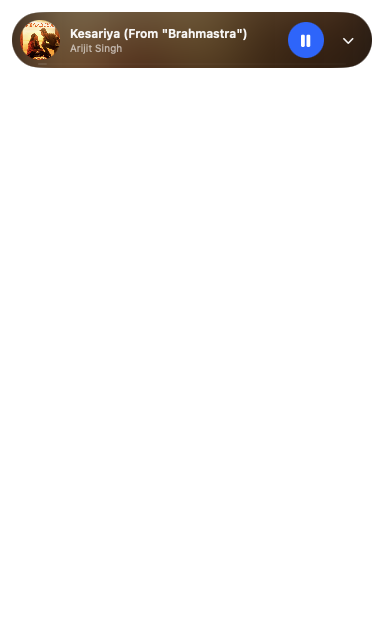
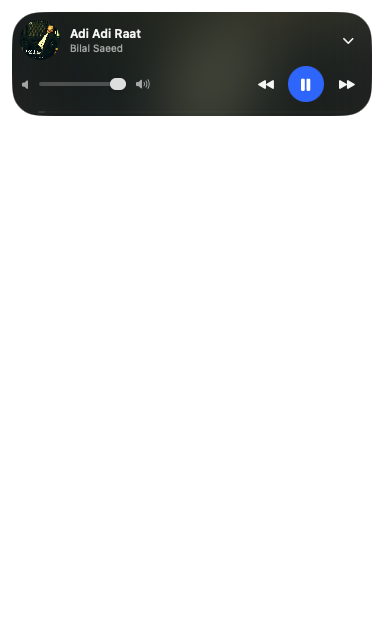
Add volume, previous and next to the compact pill
The pill grows to two rows: track info and expand on top, volume and
transport below. The volume slider is shared with Now Playing.

Changed region(s): [[0.0312, 0.0, 0.9688, 0.1863]]

diff --git a/Sources/Encore/EncoreView.swift b/Sources/Encore/EncoreView.swift
@@ -2,7 +2,7 @@ import SwiftUI
 
 enum PanelMetrics {
     static let width: CGFloat = 360
-    static let pillHeight: CGFloat = 56
+    static let pillHeight: CGFloat = 104
     static let drawerHeight: CGFloat = 620
     static let radius: CGFloat = 28
     /// Room around the shape for the glass edge and shadow.
@@ -50,6 +50,7 @@ private struct Pill: View {
     var body: some View {
         let player = model.player
         let state = player.state
+        VStack(spacing: 6) {
         HStack(spacing: 10) {
             RemoteImage(url: state.artURL, cornerRadius: 20)
                 .matchedGeometryEffect(id: "art", in: namespace)
@@ -74,14 +75,26 @@ private struct Pill: View {
 
             Spacer(minLength: 4)
 
-            PlayPauseButton(player: player, size: 36)
             GlyphButton(symbol: "chevron.down", label: "Expand", size: 28, font: .callout.weight(.semibold)) {
                 model.expanded = true
             }
         }
+
+        HStack(spacing: 6) {
+            VolumeSlider(player: player)
+                .frame(width: 132)
+            Spacer(minLength: 8)
+            GlyphButton(symbol: "backward.fill", label: "Previous", size: 32, font: .callout, action: player.previous)
+            PlayPauseButton(player: player, size: 36)
+            GlyphButton(symbol: "forward.fill", label: "Next", size: 32, font: .callout, action: player.next)
+        }
+        .disabled(!state.hasTrack)
+        }
         .padding(.leading, 8)
         .padding(.trailing, 10)
-        .frame(height: PanelMetrics.pillHeight)
+        .padding(.top, 8)
+        .padding(.bottom, 10)
+        .frame(height: PanelMetrics.pillHeight, alignment: .top)
         .overlay(alignment: .bottom) {
             if state.hasTrack {
                 ProgressLine(player: player).padding(.horizontal, 26).padding(.bottom, 3)

diff --git a/Sources/Encore/NowPlayingTab.swift b/Sources/Encore/NowPlayingTab.swift
@@ -43,12 +43,7 @@ struct NowPlayingTab: View {
                 }
 
                 HStack(spacing: 8) {
-                    Image(systemName: "speaker.fill").font(.caption2).foregroundStyle(.secondary)
-                    Slider(value: Binding(get: { player.state.volume }, set: { player.setVolume($0) }), in: 0...100)
-                        .controlSize(.mini)
-                        .tint(.primary)
-                        .accessibilityLabel("Volume")
-                    Image(systemName: "speaker.wave.3.fill").font(.caption2).foregroundStyle(.secondary)
+                    VolumeSlider(player: player)
                     GlyphButton(symbol: "list.bullet", label: model.showQueue ? "Hide Up Next" : "Up Next",
                                 size: 30, font: .callout.weight(.semibold)) {
                         model.showQueue.toggle()

diff --git a/Sources/Encore/Components.swift b/Sources/Encore/Components.swift
@@ -97,6 +97,22 @@ struct PlayPauseButton: View {
     }
 }
 
+/// The player's own volume (ducking never moves it), between quiet and loud speaker glyphs.
+struct VolumeSlider: View {
+    let player: PlayerController
+
+    var body: some View {
+        HStack(spacing: 8) {
+            Image(systemName: "speaker.fill").font(.caption2).foregroundStyle(.secondary)
+            Slider(value: Binding(get: { player.state.volume }, set: { player.setVolume($0) }), in: 0...100)
+                .controlSize(.mini)
+                .tint(.primary)
+                .accessibilityLabel("Volume")
+            Image(systemName: "speaker.wave.3.fill").font(.caption2).foregroundStyle(.secondary)
+        }
+    }
+}
+
 /// Icon-only control drawn on the glass: no chrome of its own, a soft fill on hover.
 struct GlyphButton: View {
     let symbol: String
